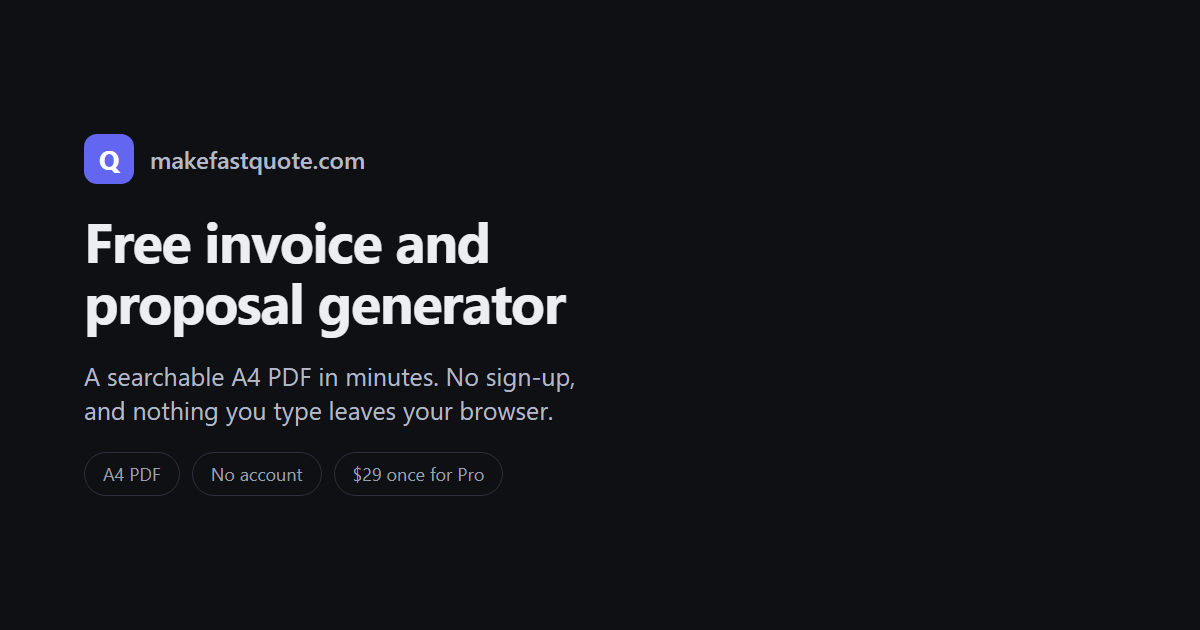
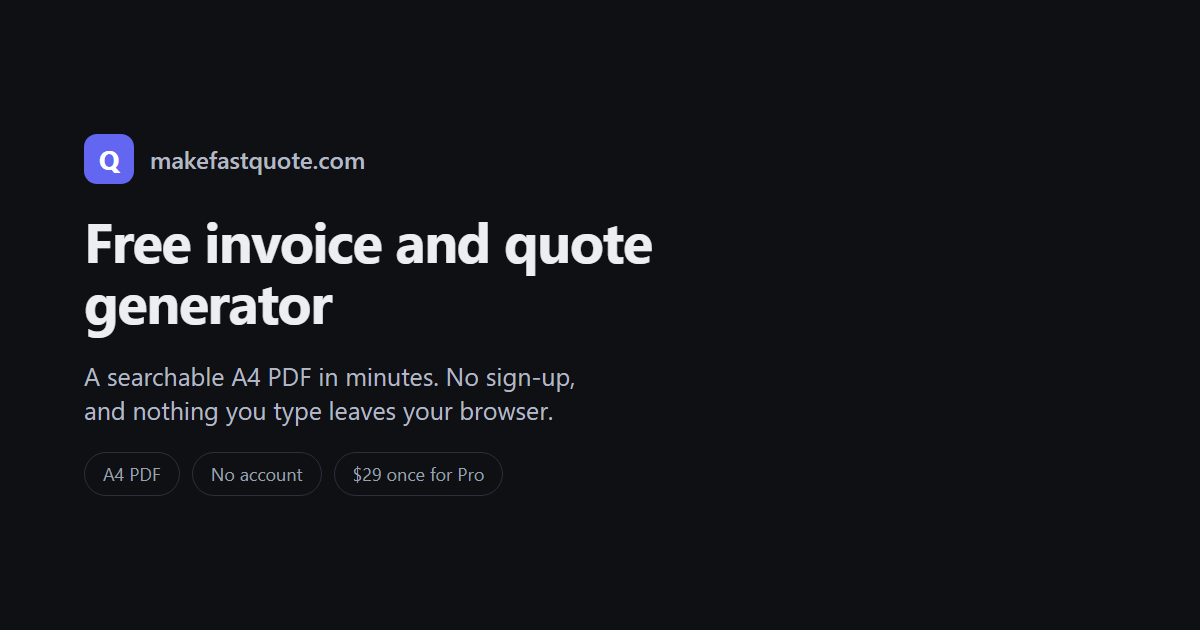
Align editor and OG copy with invoice and quote positioning.
Keep the app meta, site tagline, and generated social image consistent with the landing page wording.

Changed region(s): [[0.0617, 0.3619, 0.555, 0.5429]]

diff --git a/app/index.html b/app/index.html
@@ -3,10 +3,10 @@
   <head>
     <meta charset="UTF-8" />
     <meta name="viewport" content="width=device-width, initial-scale=1, viewport-fit=cover" />
-    <title>Invoice editor · MakeFastQuote</title>
+    <title>Invoice &amp; quote editor · MakeFastQuote</title>
     <meta
       name="description"
-      content="Build a proposal or invoice and download it as a clean A4 PDF. Everything happens in your browser."
+      content="Build a quote, proposal, or invoice and download it as a clean A4 PDF. Everything happens in your browser."
     />
     <!-- The editor is a tool, not a landing page: keep it out of the index and
          point crawlers at the page that should rank. -->
@@ -18,17 +18,17 @@
     <meta name="theme-color" content="#0f172a" media="(prefers-color-scheme: dark)" />
     <meta property="og:type" content="website" />
     <meta property="og:url" content="https://makefastquote.com/" />
-    <meta property="og:title" content="Free Invoice &amp; Proposal Generator | MakeFastQuote" />
+    <meta property="og:title" content="Free Invoice &amp; Quote PDF Generator | MakeFastQuote" />
     <meta
       property="og:description"
-      content="Create a freelance invoice or proposal and download a searchable A4 PDF in minutes. Free, no sign-up."
+      content="Create a freelance invoice, quote, or proposal PDF in minutes. Free, no sign-up."
     />
     <meta property="og:image" content="https://makefastquote.com/og.png" />
     <meta name="twitter:card" content="summary_large_image" />
-    <meta name="twitter:title" content="Free Invoice &amp; Proposal Generator | MakeFastQuote" />
+    <meta name="twitter:title" content="Free Invoice &amp; Quote PDF Generator | MakeFastQuote" />
     <meta
       name="twitter:description"
-      content="Create a freelance invoice or proposal and download a searchable A4 PDF in minutes."
+      content="Create a freelance invoice, quote, or proposal PDF in minutes."
     />
     <meta name="twitter:image" content="https://makefastquote.com/og.png" />
   </head>

diff --git a/src/config.ts b/src/config.ts
@@ -7,7 +7,7 @@ export const SITE = {
   domain: 'makefastquote.com',
   url: 'https://makefastquote.com',
   name: 'MakeFastQuote',
-  tagline: 'Free invoice and proposal generator',
+  tagline: 'Free invoice and quote generator',
 } as const;
 
 /** Price in whole units of `currency`. Referenced by every piece of copy. */
